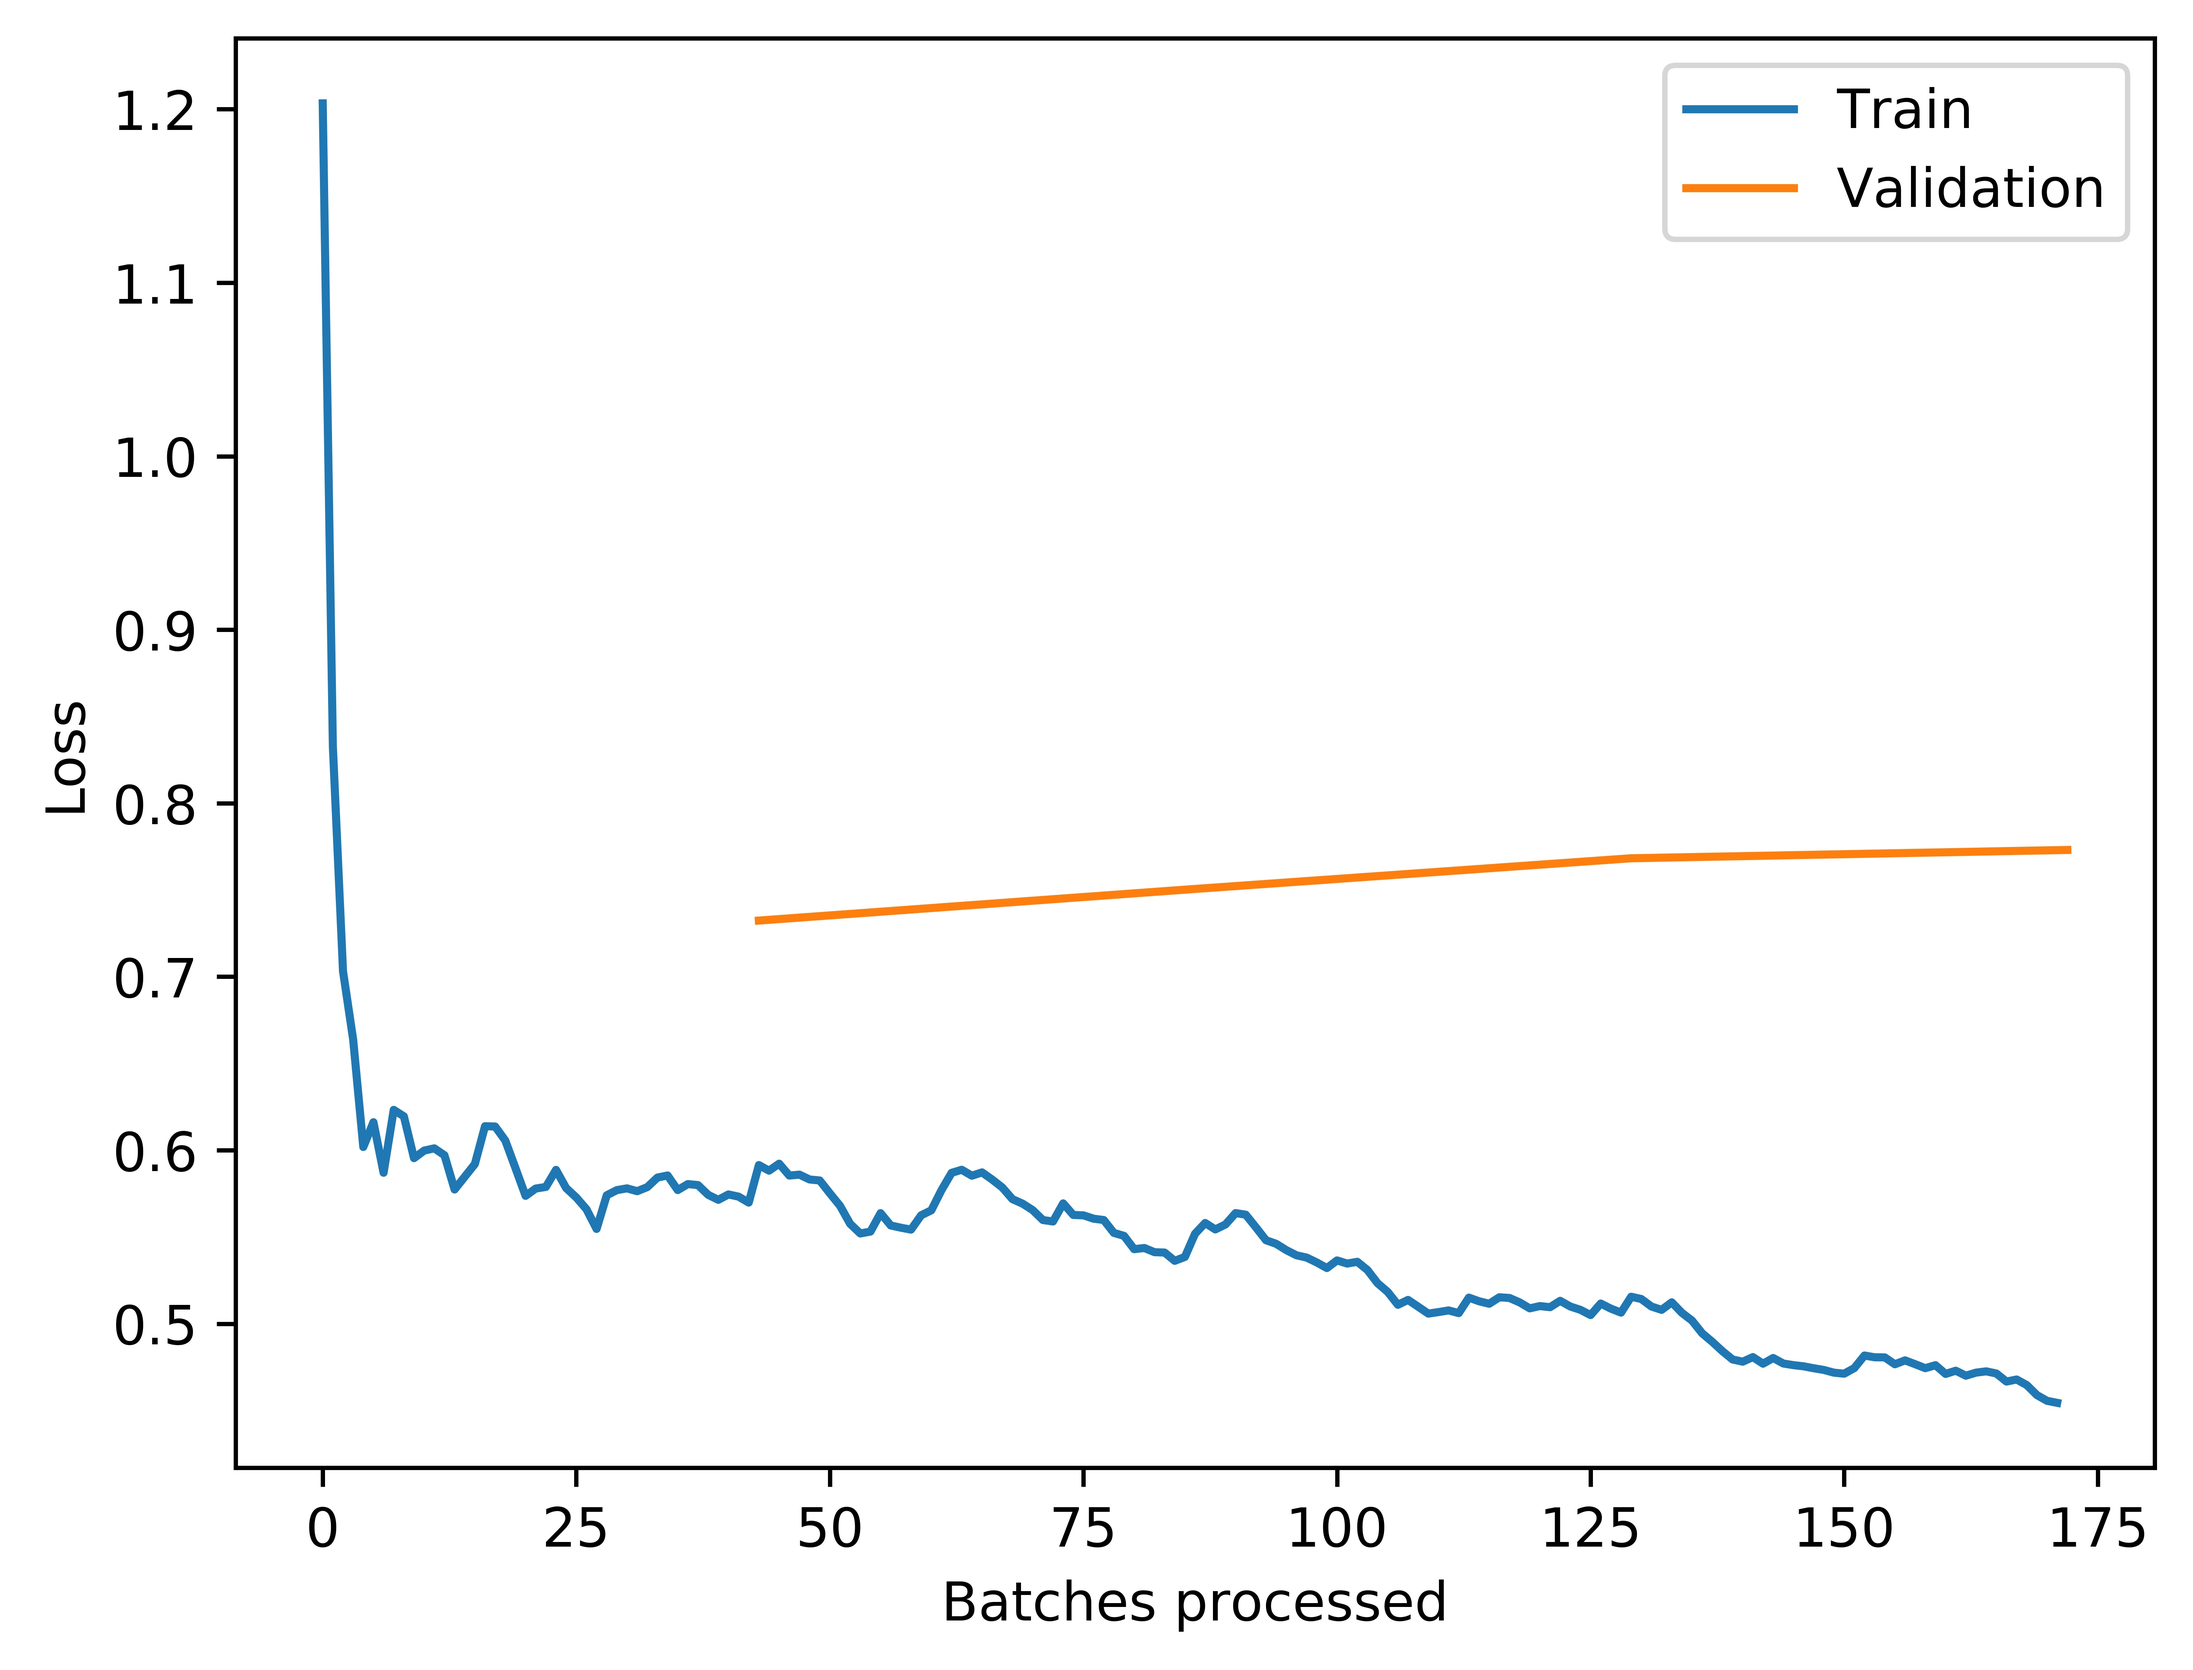
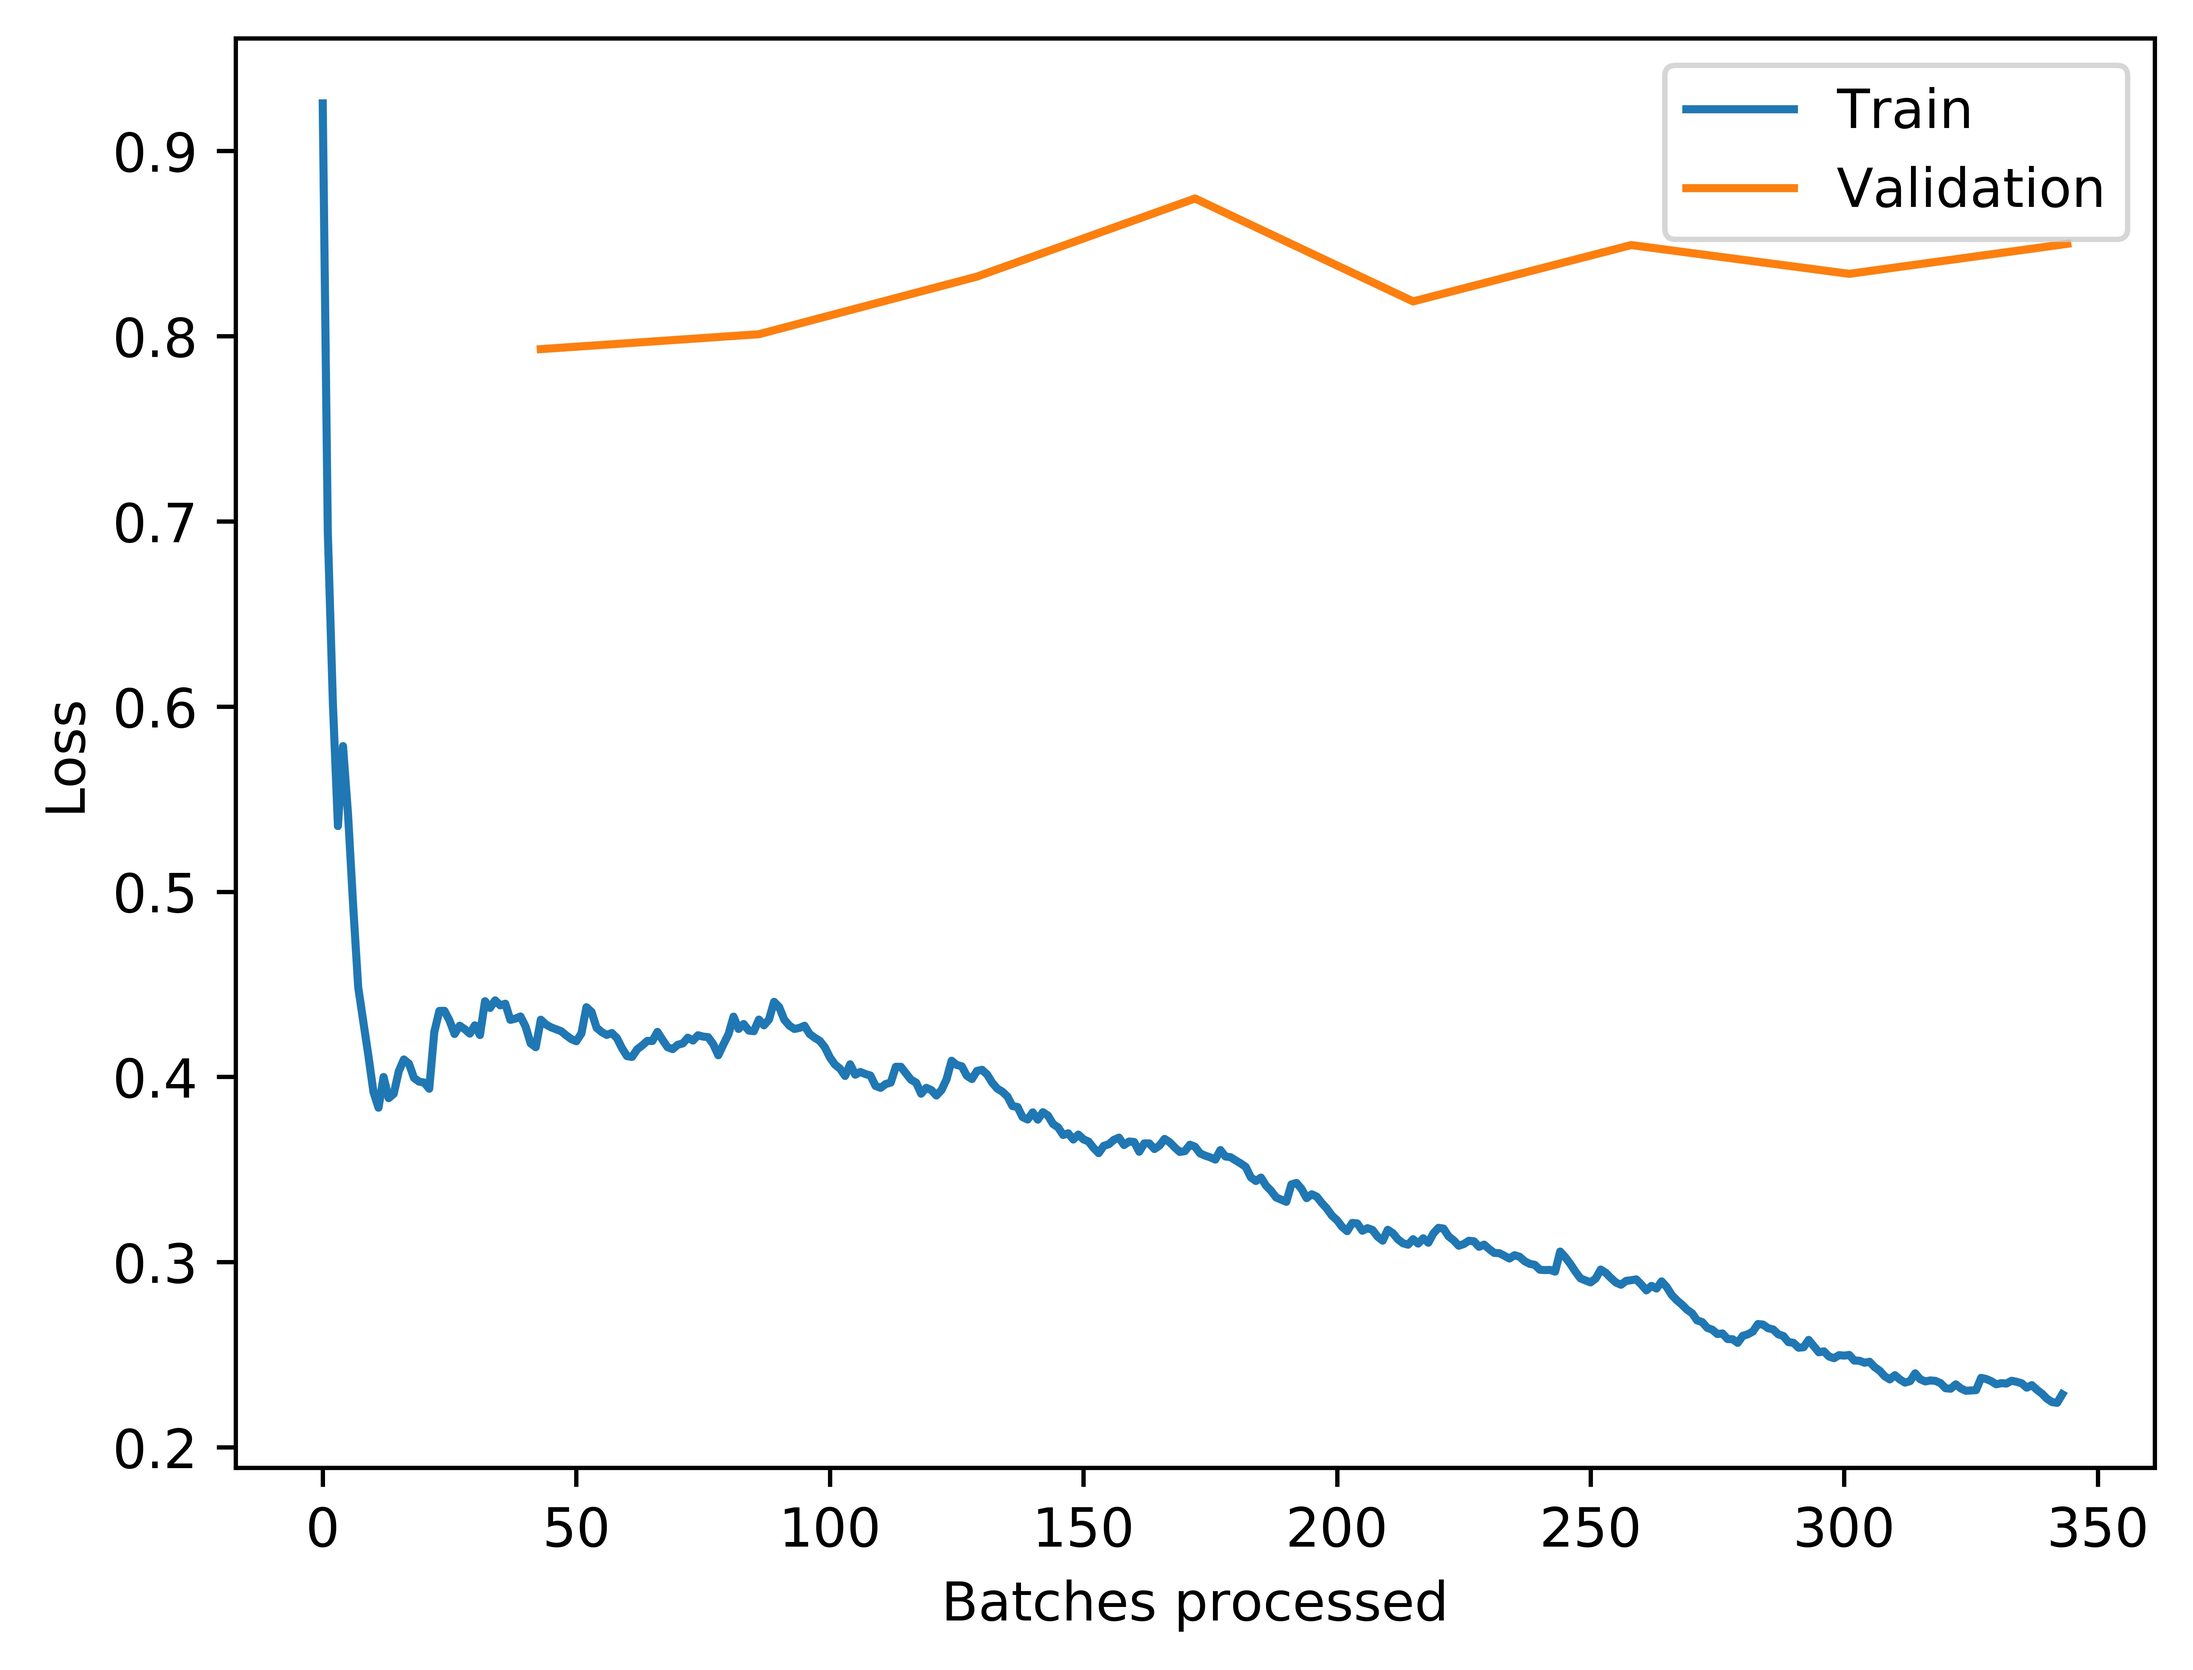
Even better results

diff --git a/ULMFiT.py b/ULMFiT.py
@@ -134,16 +134,16 @@ def train_clas(learning_rates=False):
         lr_fig_2.savefig(path / 'figs' / 'lr_fig_2.jpg', dpi=1000, bbox_inches='tight')
 
     # gradual unfreezing
-    learn.fit_one_cycle(cyc_len=1, max_lr=1e-3, moms=(0.8, 0.7))
+    learn.fit_one_cycle(cyc_len=2, max_lr=1e-3, moms=(0.8, 0.7))
 
     learn.freeze_to(-2)
-    learn.fit_one_cycle(1, slice(1e-2 / (2.6 ** 4), 1e-2), moms=(0.8, 0.7))
+    learn.fit_one_cycle(2, slice(1e-2 / (2.6 ** 4), 1e-2), moms=(0.8, 0.7))
 
     learn.freeze_to(-3)
-    learn.fit_one_cycle(1, slice(5e-3 / (2.6 ** 4), 5e-3), moms=(0.8, 0.7))
+    learn.fit_one_cycle(2, slice(5e-3 / (2.6 ** 4), 5e-3), moms=(0.8, 0.7))
 
     learn.unfreeze()
-    learn.fit_one_cycle(4, slice(1e-3 / (2.6 ** 4), 1e-3), moms=(0.8, 0.7), callbacks=[callbacks.SaveModelCallback(learn, monitor='f1', name='model')])
+    learn.fit_one_cycle(8, slice(1e-3 / (2.6 ** 4), 1e-3), moms=(0.8, 0.7), callbacks=[callbacks.SaveModelCallback(learn, monitor='f1', name='model')])
     # plot losses
     losses_clas_fig = learn.recorder.plot_losses(return_fig=True)
     losses_clas_fig.savefig(path  / 'figs' / 'losses_clas_fig.jpg', dpi=1000, bbox_inches='tight')
